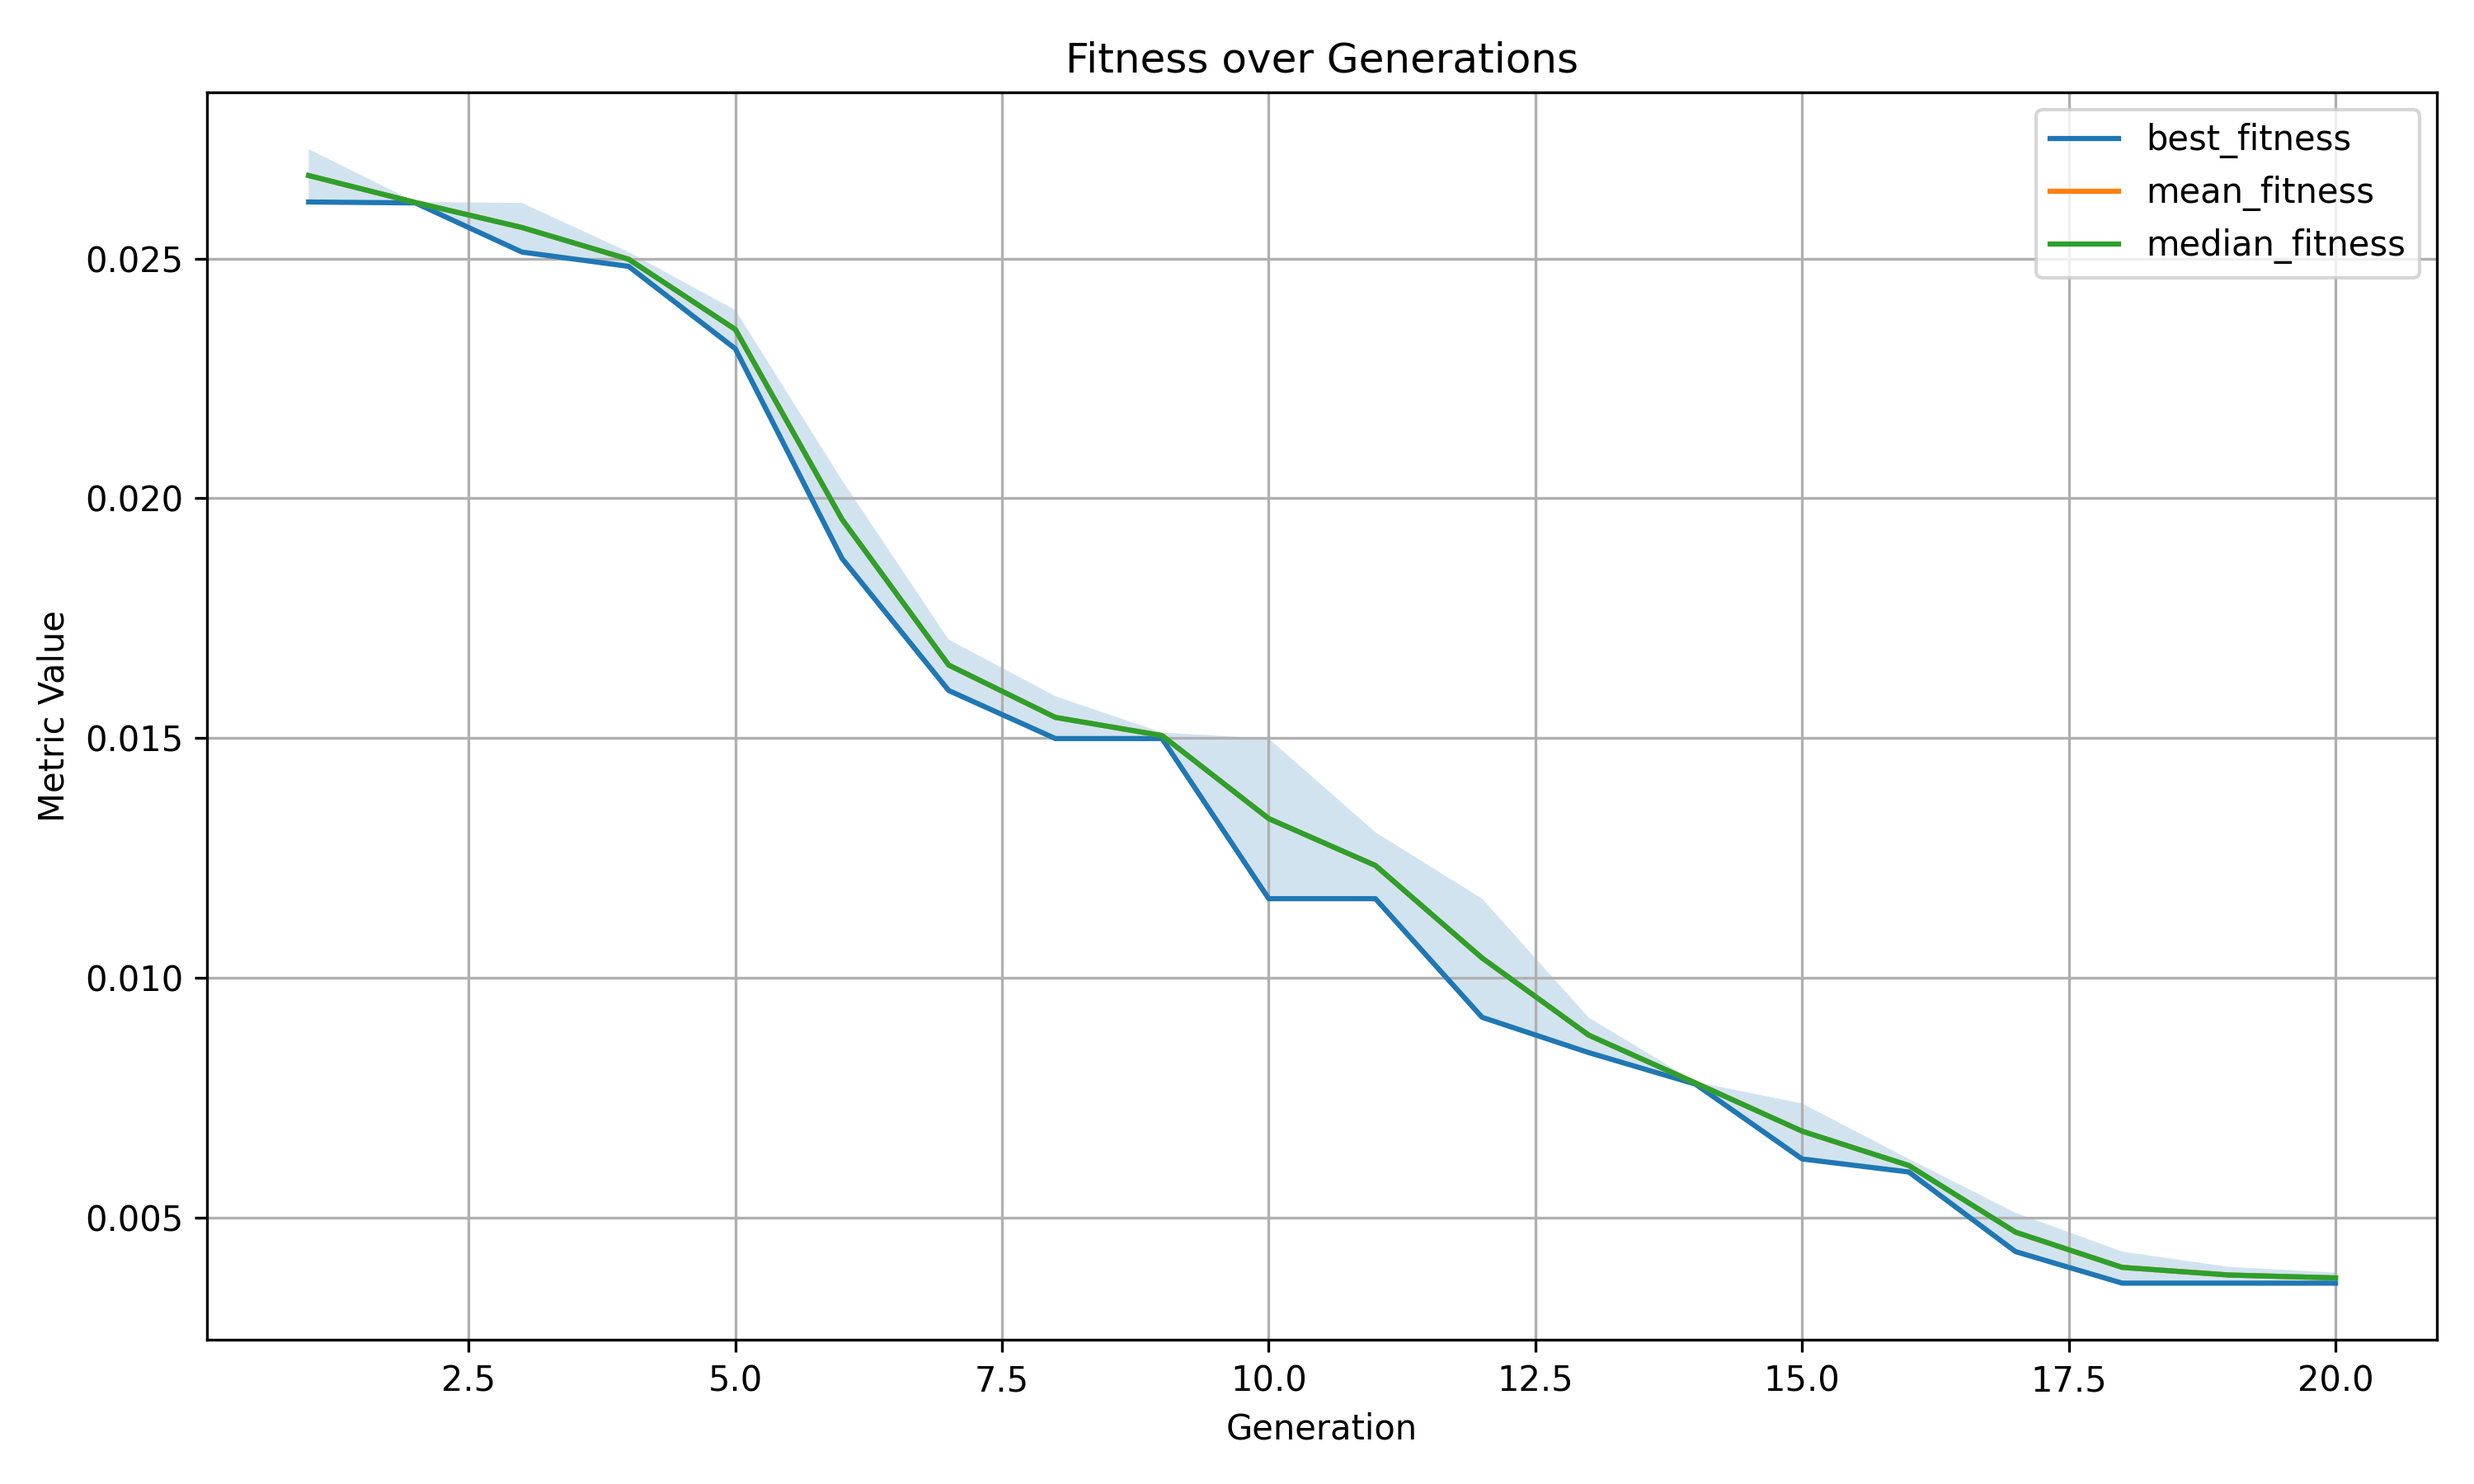
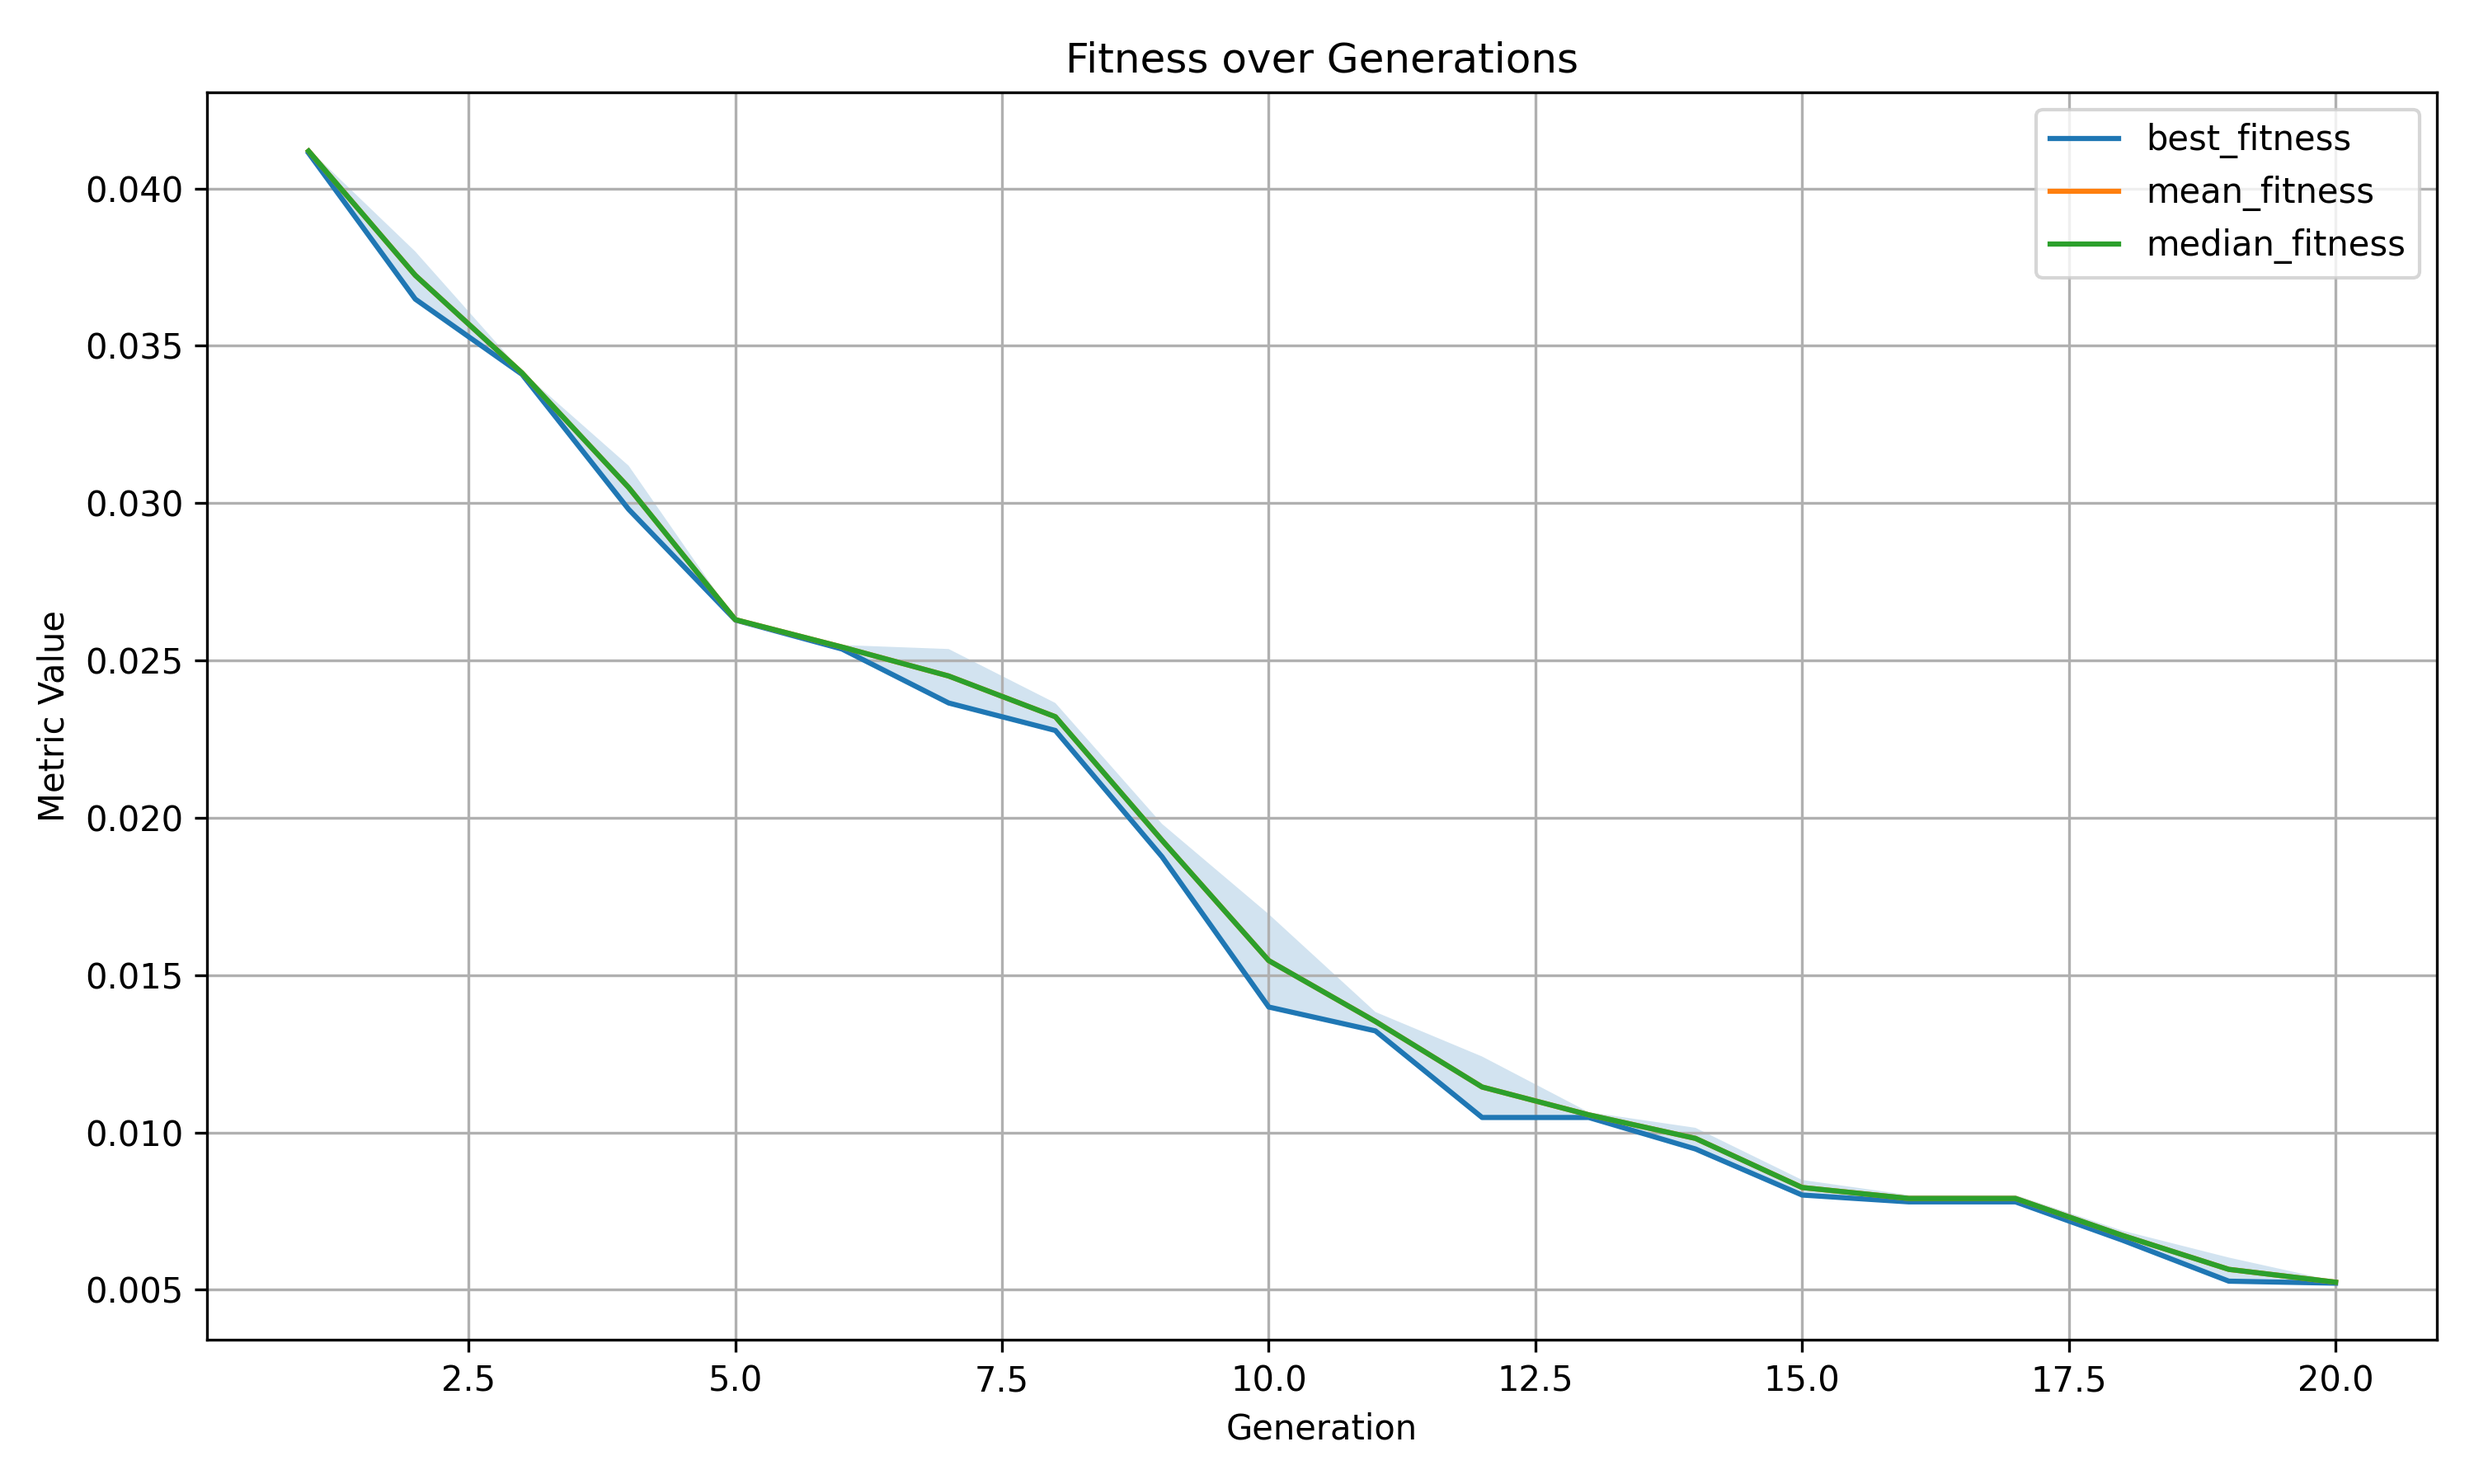
Examples: Fix and simplify 03_compare_runs

diff --git a/examples/03_comparisons/03_compare_runs.py b/examples/03_comparisons/03_compare_runs.py
@@ -5,9 +5,7 @@ This example demonstrates how to run the same optimization with different settin
 (e.g. mutation strength) and compare their results using the fitness history.
 """
 
-import pandas as pd
-
-from evolib import Indiv, Pop, mse_loss, simple_quadratic
+from evolib import Indiv, Population, mse_loss, simple_quadratic
 from evolib.utils.plotting import plot_fitness_comparison
 
 
@@ -17,26 +15,28 @@ def my_fitness(indiv: Indiv) -> None:
     indiv.fitness = mse_loss(expected, predicted)
 
 
-def run_experiment(mutation_strength: float) -> pd.DataFrame:
-    pop = Pop(config_path="population.yaml")
-    pop.set_functions(fitness_function=my_fitness)
+def run_experiment(mutation_strength: float) -> Population:
+    pop = Population(config_path="03_compare_runs.yaml", fitness_function=my_fitness)
 
-    for _ in range(pop.max_generations):
-        pop.run_one_generation()
+    for indiv in pop.indivs:
+        params = indiv.para["test-vector"].evo_params
+        params.mutation_strength = mutation_strength
 
-    return pop.history_logger.to_dataframe()
+    pop.run(verbosity=0)
+
+    return pop
 
 
 # Run multiple experiments
-history_low = run_experiment(mutation_strength=0.1)
-history_high = run_experiment(mutation_strength=0.5)
+pop_low = run_experiment(mutation_strength=0.001)
+pop_high = run_experiment(mutation_strength=0.005)
 
 # Compare fitness progress
 plot_fitness_comparison(
-    histories=[history_low, history_high],
-    labels=["Mutation σ = 0.1", "Mutation σ = 0.5"],
+    histories=[pop_low.history_df, pop_high.history_df],
+    labels=["Mutation σ = 0.001", "Mutation σ = 0.005"],
     metric="best_fitness",
     title="Best Fitness Comparison (Low vs High Mutation)",
     show=True,
-    save_path="./figures/02_Compare_Runs.png",
+    save_path="./figures/03_Compare_Runs.png",
 )
